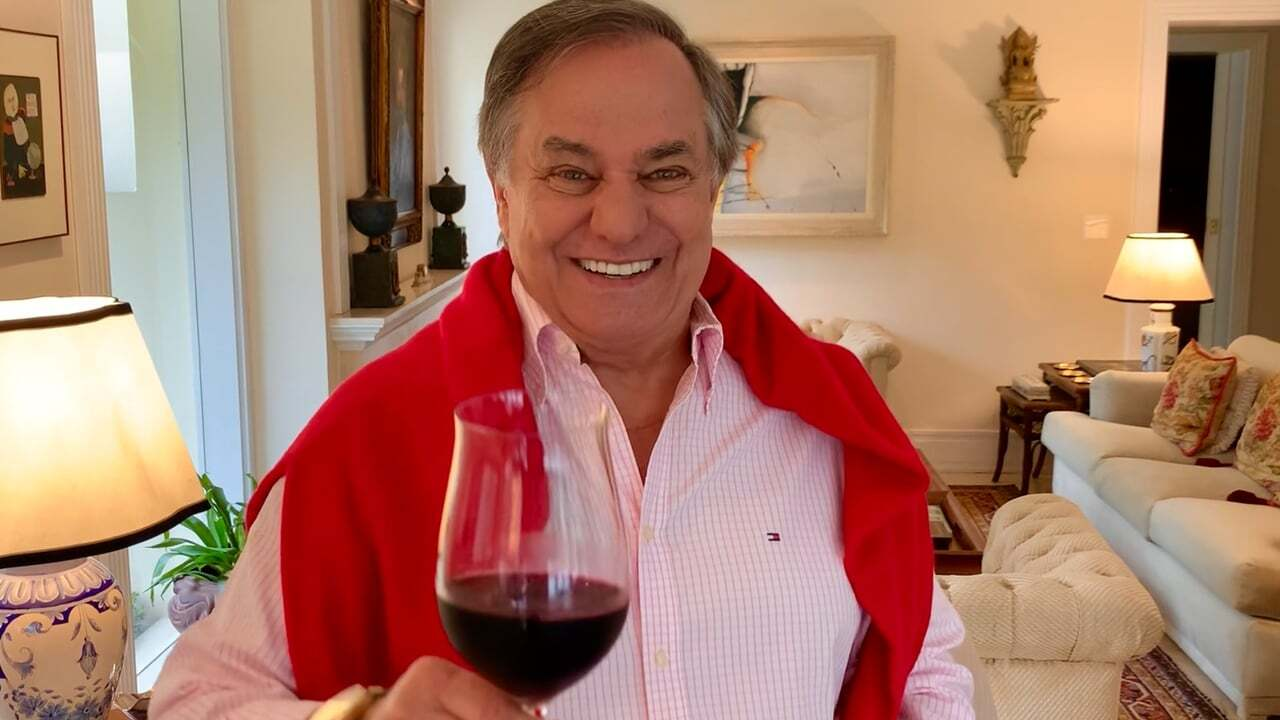
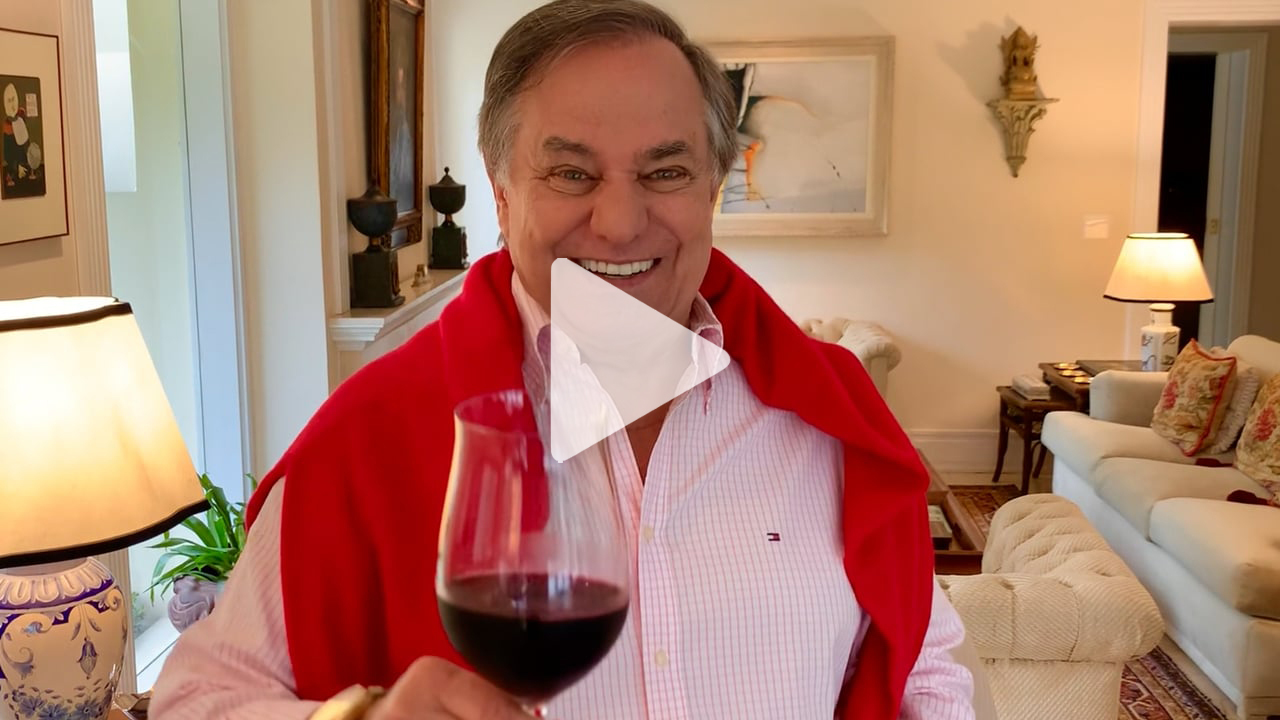
novo poster

Changed region(s): [[0.4062, 0.3667, 0.5938, 0.6417]]

diff --git a/wordpress/polen/themes/polen/inc/front-components/masterclass.php b/wordpress/polen/themes/polen/inc/front-components/masterclass.php
@@ -43,7 +43,7 @@ function mc_get_top_banner()
 					</div>
 				</div>
 				<div class="mc-home-video mb-4">
-					<video id="mc-video" playsinline poster="<?php echo TEMPLATE_URI; ?>/assets/img/masterclass/player-poster.jpg">
+					<video id="mc-video" playsinline poster="<?php echo TEMPLATE_URI; ?>/assets/img/masterclass/player-poster.jpg?v=2">
 						<source src="https://player.vimeo.com/external/595532426.sd.mp4?s=ab2b9eebb3b1c17cd060ebe49d31ed2949472cea&profile_id=164" type="video/mp4">
 					</video>
 				</div>
